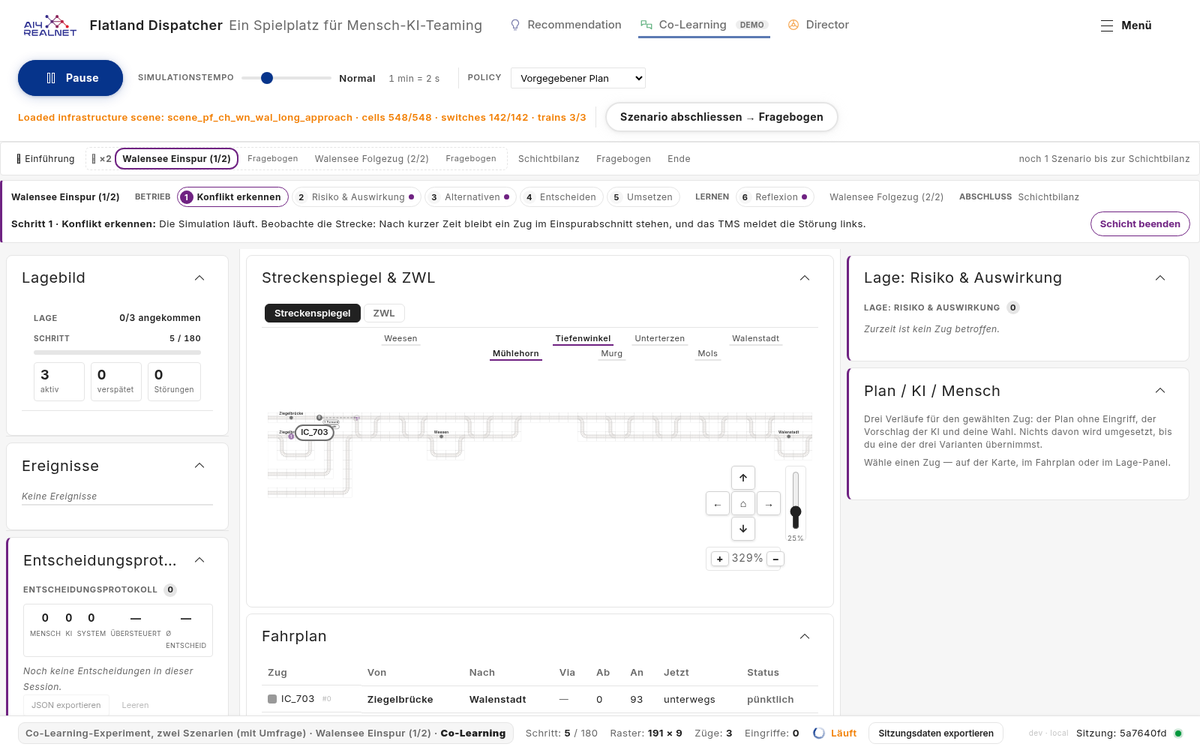
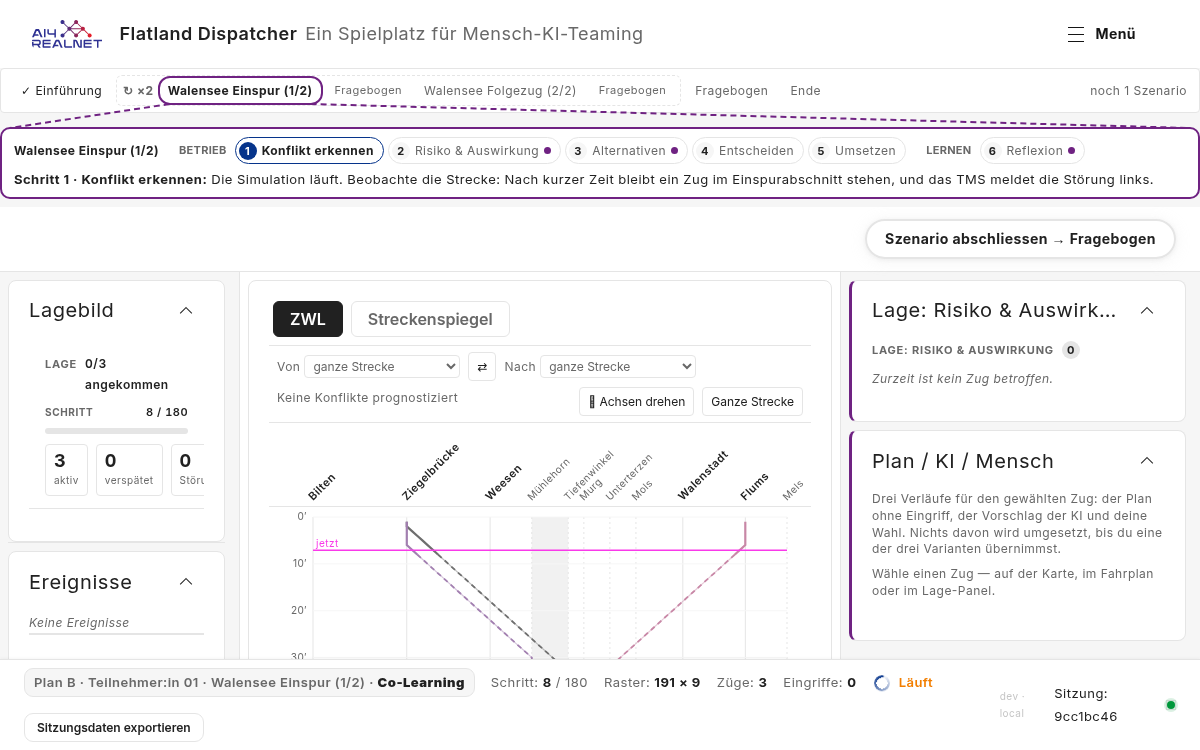
feat(study-conditions): run Plan B without the Schichtbilanz (#174).

diff --git a/frontend/src/app/core/demo/tour-briefings.ts b/frontend/src/app/core/demo/tour-briefings.ts
@@ -503,7 +503,7 @@ const CO_LEARNING_EXPERIMENT_2X_DE: TourBriefing = {
     eyebrow: 'Experiment · Co-Learning',
     title: 'Zwei Szenarien am Walensee',
     lead:
-      'Du disponierst nacheinander zwei Lagen auf derselben Strecke. Nach jedem Szenario folgt eine kurze Frage zur Belastung, am Schluss die Schichtbilanz über beide und ein Fragebogen.',
+      'Du disponierst nacheinander zwei Lagen auf derselben Strecke. Nach jedem Szenario folgt eine kurze Frage zur Belastung, am Schluss ein Fragebogen.',
     byline: 'AI4REALNET · Flatland Dispatcher',
     sections: [
       {
@@ -518,7 +518,7 @@ const CO_LEARNING_EXPERIMENT_2X_DE: TourBriefing = {
         items: [
           'Pro Szenario: die Lage lesen, «Szenario starten», disponieren',
           'Mit «Szenario abschliessen» beendest du ein Szenario, wann immer du fertig bist',
-          'Nach dem letzten Szenario: Schichtbilanz, dann der Fragebogen',
+          'Nach dem letzten Szenario: der Fragebogen',
         ],
       },
     ],

diff --git a/frontend/src/app/core/demo/study-conditions.ts b/frontend/src/app/core/demo/study-conditions.ts
@@ -182,6 +182,9 @@ export const STUDY_CONDITIONS: readonly StudyCondition[] = [
     briefingIds: { de: 'colearning-experiment-2x', en: 'colearning-experiment-2x' },
     legSurveyParts: ['nasa-tlx'],
     surveyParts: DEFAULT_SURVEY_PARTS,
+    // An experiment needs no shift evaluation: after the last scenario
+    // straight to the questionnaire (#174, docs/plans/remove-shift-summary.md).
+    shiftSummary: false,
     legs: [WAL_SINGLE_TRACK, WAL_FOLLOWER],
   },
 ];

diff --git a/frontend/src/app/core/demo/study-conditions.spec.ts b/frontend/src/app/core/demo/study-conditions.spec.ts
@@ -43,6 +43,12 @@ describe('study conditions', () => {
     }
   });
 
+  it('Plan B goes without the Schichtbilanz, the other guided conditions keep it (#174)', () => {
+    for (const c of guided) {
+      expect(c.shiftSummary).withContext(conditionId(c)).toBe(conditionId(c) === 'plan-b-p01' ? false : undefined);
+    }
+  });
+
   it('ships at least one guided condition', () => {
     expect(guided.length).toBeGreaterThan(0);
   });
